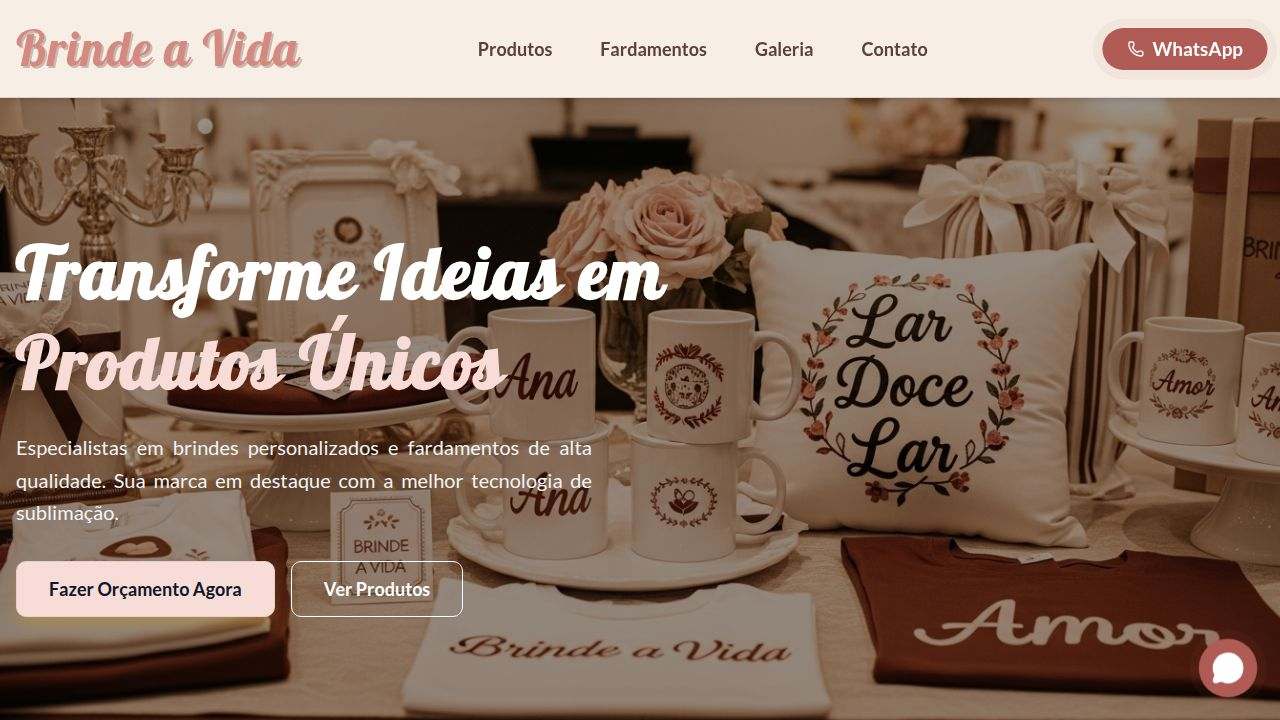
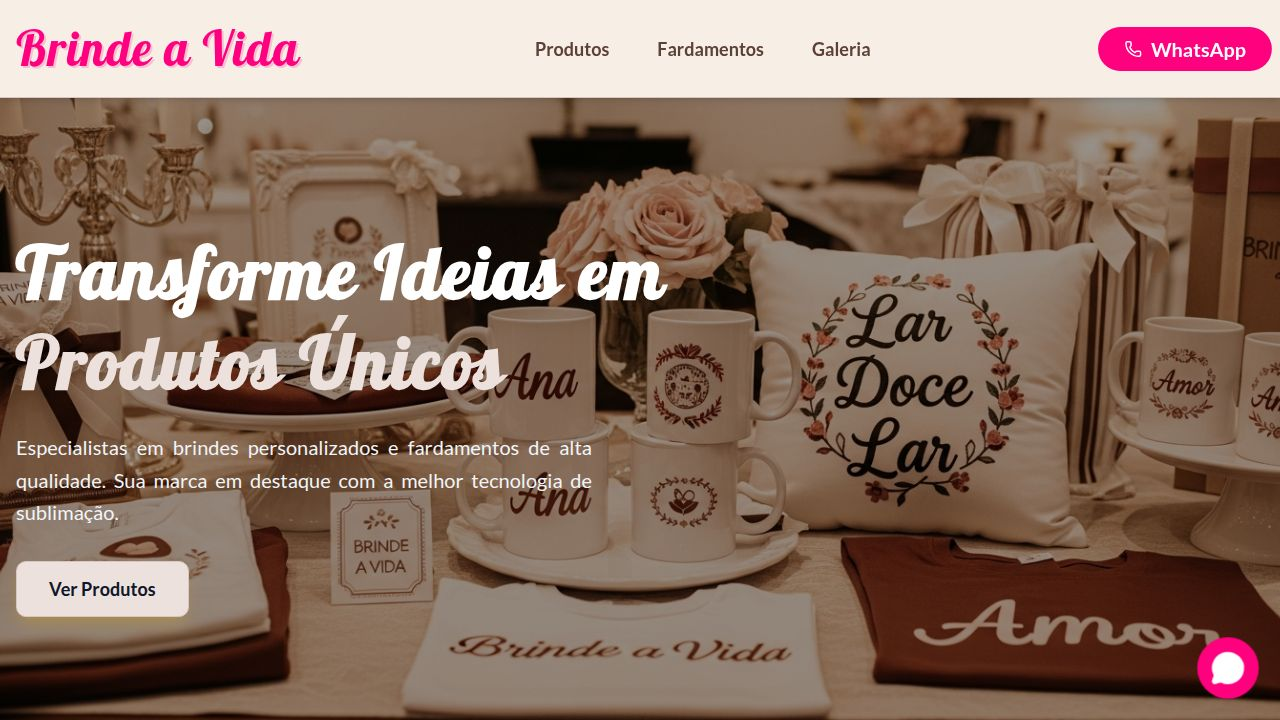
removido contato

diff --git a/client/src/lib/data.ts b/client/src/lib/data.ts
@@ -1,7 +1,6 @@
+import mugImage from "@assets/BannerPersonalizar_1772647599768.png";
+import chromeMugImage from "@assets/491270563_2154178541701428_2866912619618159045_n_1772647645752.jpg";
 import heroImage from "@assets/generated_images/hero_banner_with_portuguese_text_on_gifts.png";
-
-export { heroImage };
-import mugImage from "@assets/generated_images/personalized_mugs_with_portuguese_names.png";
 import tshirtImage from "@assets/generated_images/personalized_t-shirts_flatlay_portuguese_text.png";
 import cushionImage from "@assets/generated_images/personalized_cushions_on_sofa_portuguese_text.png";
 import labelImage from "@assets/generated_images/satin_labels_detail_portuguese_text.png";
@@ -14,19 +13,21 @@ import plateImage from "@assets/generated_images/decorative_porcelain_plate_port
 import restaurantImage from "@assets/generated_images/personalized_restaurant_items_portuguese_text.png";
 import schoolKitImage from "@assets/generated_images/personalized_school_kit_portuguese_name.png";
 
+export { heroImage };
+
 export const companyInfo = {
   name: "Brinde a Vida",
-  phone: "(11) 98747-5687", 
-  email: "comercial@iusti.com.br",
+  phone: "", 
+  email: "",
   address: "Rua das Flores, 123 - Centro, Cidade - SP", 
   whatsappLink: (message: string) => `https://wa.me/5511987475687?text=${encodeURIComponent(message)}`,
-  budgetFormLink: "https://docs.google.com/forms/d/e/1FAIpQLSel1-QfxqKG0ExDkuKM_s3zR-aO_FrAhylHpLOaD2WpUyHSzg/viewform?usp=publish-editor",
+  budgetFormLink: "",
   facebookLink: "https://www.facebook.com/BrindeaVidaPersonalizados/?locale=pt_BR",
   instagramLink: "https://instagram.com/brindeavida.ofc"
 };
 
 export const categories = [
-  { id: "canecas", name: "Canecas e Xícaras", image: mugImage },
+  { id: "canecas", name: "Canecas Personalizadas", image: mugImage },
   { id: "restaurantes", name: "Artigos para Restaurantes", image: restaurantImage },
   { id: "escolar", name: "Kits Escolares Personalizados", image: schoolKitImage },
   { id: "copos", name: "Copos Personalizados", image: partyCupImage },
@@ -43,11 +44,19 @@ export const categories = [
 export const products = [
   {
     id: 1,
-    name: "Canecas e Xícaras Personalizadas",
+    name: "Canecas Personalizadas",
     category: "Canecas",
     image: mugImage,
-    description: "Transforme cada gole em uma experiência única e afetuosa. Nossas canecas e xícaras de cerâmica premium são telas em branco prontas para receber sua arte, foto ou mensagem especial.\n\nCom acabamento impecável e brilho duradouro, elas não são apenas utensílios, mas veículos de emoção. Perfeitas para eternizar momentos em família, presentear colaboradores com elegância ou criar uma linha exclusiva de produtos para sua marca. Cada peça é tratada com carinho para garantir que a imagem permaneça vibrante, resistindo ao tempo e ao uso diário, assim como as memórias que elas carregam.",
-    benefits: ["Material Cerâmica Premium AAA", "Design Exclusivo e Personalizado", "Alta Resistência e Durabilidade", "Presente Emocional e Funcional"]
+    description: "Nossas canecas personalizadas são o presente perfeito para transformar um simples objeto em uma memória inesquecível. Produzidas com cerâmica de alta qualidade, elas garantem um brilho impecável e uma durabilidade que resiste ao tempo. Seja para o café da manhã, para decorar o escritório ou para presentear quem você ama com uma foto especial, frase motivacional ou arte exclusiva, nossas canecas são feitas com todo o cuidado para tocar o coração e trazer alegria a cada uso.",
+    benefits: ["Cerâmica Premium de Alto Brilho", "Impressão de Alta Definição", "Resistente a Micro-ondas e Lava-louças", "Presente Afetivo Personalizado"]
+  },
+  {
+    id: 14,
+    name: "Canecas Cromadas",
+    category: "Canecas",
+    image: chromeMugImage,
+    description: "Eleve o nível do seu presente com a sofisticação das nossas canecas cromadas. Com um acabamento espelhado deslumbrante em tons de dourado, prateado e rosê, estas peças são sinônimo de luxo e exclusividade.\n\nPerfeitas para quem busca um item de destaque na decoração ou um presente que impressiona logo no primeiro olhar. A personalização ganha um toque de classe único sobre o fundo metalizado, criando um contraste elegante que valoriza cada detalhe da arte. Um item indispensável para colecionadores e para brindes corporativos de alto padrão que desejam transmitir prestígio e modernidade.",
+    benefits: ["Acabamento Espelhado Premium", "Efeito Metálico Sofisticado", "Cores: Ouro, Prata e Rosê", "Presente de Alto Impacto Visual"]
   },
   {
     id: 11,
@@ -102,16 +111,15 @@ export const products = [
     name: "Etiquetas e Fitas de Cetim",
     category: "Etiquetas",
     image: labelImage,
-    description: "Sua marca merece ser assinada com elegância e sofisticação. Nossas etiquetas e fitas de cetim personalizadas são o detalhe que faz toda a diferença na percepção de valor do seu produto.\n\nIdeais para artesãos, costureiras e marcas de moda que desejam transmitir profissionalismo e cuidado em cada entrega. Com impressão nítida e material de brilho sutil, elas transformam embalagens e peças de roupa em verdadeiros presentes. É a finalização perfeita que encanta o cliente antes mesmo de ele ver o produto principal, fortalecendo sua identidade no mercado.",
+    description: "Sua marca merece ser assinada com elegância e sofisticação. Nossas etiquetas e fitas de cetim personalizadas são o detalhe que faz toda a difference na percepção de valor do seu produto.\n\nIdeais para artesãos, costureiras e marcas de moda que desejam transmitir profissionalismo e cuidado em cada entrega. Com impressão nítida e material de brilho sutil, elas transformam embalagens e peças de roupa em verdadeiros presentes. É a finalização perfeita que encanta o cliente antes mesmo de ele ver o produto principal, fortalecendo sua identidade no mercado.",
     benefits: ["Valorização do Produto Artesanal", "Acabamento Profissional e Elegante", "Fortalecimento de Branding", "Versatilidade para Embalagens"]
-    
   },
   {
     id: 5,
     name: "Bonés Personalizados",
     category: "Bonés",
     image: capImage,
-    description: "Estilo e visibilidade que vão à cabeça. Nossos bonés personalizados combinam design moderno com alta durabilidade, sendo a escolha ideal para proteger do sol enquanto promove sua marca ou evento.\n\nDisponíveis em diversos modelos como trucker, aba curva ou reta, eles oferecem ajuste perfeito e conforto para uso prolongado. Seja para times esportivos, brindes corporativos ou coleções de moda, garantimos uma personalização que destaca seu logo ou arte com precisão. Um acessório funcional que se torna parte do estilo de vida de quem usa.",
+    description: "Estilo e visibilidade que vão à cabeça. Nossos bonés personalizados combinam design moderno com alta durabilidade, sendo a escolha ideal para proteger do sol enquanto promove sua marca ou evento.\n\nDisponíveis em diversos modelos como trucker, aba curva ou reta, eles oferecem ajuste perfeito e conforto para uso prolongado. Seja para times esportivos, brindes corporativos ou coleções de moda, garantimos uma personalização que destaca seu logo ou arte com precisão. Um acessório funcional que se torna partedo estilo de vida de quem usa.",
     benefits: ["Alta Visibilidade da Marca", "Estilo e Proteção Solar", "Modelos Ajustáveis e Confortáveis", "Brinde de Longa Duração"]
   },
   {
@@ -137,6 +145,14 @@ export const products = [
     image: ecoImage,
     description: "Sustentabilidade e organização com a cara da sua marca. Nossas ecobags e agendas personalizadas são a escolha perfeita para empresas e pessoas conscientes que buscam unir utilidade e responsabilidade ambiental.\n\nAs ecobags, resistentes e reutilizáveis, levam sua mensagem para todos os lugares, enquanto as agendas ajudam a organizar a rotina com elegância. Produtos que demonstram cuidado não apenas com quem recebe, mas também com o planeta. Ideais para kits de boas-vindas, eventos corporativos e presentes que geram impacto positivo real.",
     benefits: ["Sustentabilidade e Consciência", "Utilidade no Dia a Dia", "Fortalecimento de Vínculos", "Imagem Positiva da Marca"]
+  },
+  {
+    id: 13,
+    name: "Kits Presentes Personalizados",
+    category: "Presentes",
+    image: ecoImage,
+    description: "A arte de presentear com intenção e afeto. Nossos kits presentes reúnem itens coordenados que contam uma história e celebram conexões. De caixas corporativas a kits de aniversário, cada conjunto é montado com curadoria especial.\n\nImagine a surpresa de quem recebe um kit onde cada item foi pensado exclusivamente para ela. Além da beleza estética, nossos kits priorizam a qualidade dos produtos e a experiência de abertura (unboxing), garantindo que seu gesto de carinho seja lembrado por muito tempo como uma demonstração genuína de valorização e amor.",
+    benefits: ["Curadoria de Itens Coordenados", "Experiência de Unboxing Encantadora", "Ideal para Datas Comemorativas", "Personalização de Kit Completo"]
   }
 ];
 

diff --git a/client/index.html b/client/index.html
@@ -4,8 +4,8 @@
     <meta charset="UTF-8" />
     <meta name="viewport" content="width=device-width, initial-scale=1.0, maximum-scale=1" />
 
-    <title>Brinde a Vida | Presentes Personalizados e Fardamentos em SP</title>
-    <meta name="description" content="Especialistas em presentes personalizados e fardamentos. Canecas, camisetas, almofadas, azulejos e brindes corporativos com qualidade premium. Atendemos São Paulo e região. Faça seu orçamento via WhatsApp!" />
+    <title>Brinde a Vida - Presentes Personalizados com Emoção</title>
+    <meta name="description" content="Eternize momentos especiais com presentes personalizados da Brinde a Vida. Canecas, camisetas, almofadas e muito mais, criados com amor e foco no benefício emocional desde 2013." />
     <meta name="keywords" content="brindes personalizados, presentes criativos, canecas personalizadas, camisetas personalizadas, fardamentos, sublimação, azulejos personalizados, brindes corporativos, São Paulo, presentes dia dos pais, presentes dia das mães, lembrancinhas" />
     <meta name="robots" content="index, follow" />
     <meta name="author" content="Innova Iusti" />
@@ -16,16 +16,16 @@
     <meta name="geo.position" content="-23.5505;-46.6333" />
     <meta name="ICBM" content="-23.5505, -46.6333" />
     
-    <meta property="og:title" content="Brinde a Vida | Presentes Personalizados e Fardamentos" />
-    <meta property="og:description" content="Transforme momentos em memórias. Canecas, camisetas, fardamentos e brindes exclusivos. Qualidade e carinho em cada detalhe." />
+    <meta property="og:title" content="Brinde a Vida - Presentes Personalizados com Emoção" />
+    <meta property="og:description" content="Eternize momentos especiais com presentes personalizados da Brinde a Vida. Qualidade e carinho em cada detalhe." />
     <meta property="og:type" content="website" />
     <meta property="og:locale" content="pt_BR" />
     <meta property="og:site_name" content="Brinde a Vida" />
     <meta property="og:image" content="/attached_assets/hero_image.png" /> 
     
     <meta name="twitter:card" content="summary_large_image" />
-    <meta name="twitter:title" content="Brinde a Vida | Presentes Personalizados" />
-    <meta name="twitter:description" content="Presentes únicos e personalizados: canecas, camisetas, fardamentos e muito mais. Peça já o seu!" />
+    <meta name="twitter:title" content="Brinde a Vida - Presentes Personalizados com Emoção" />
+    <meta name="twitter:description" content="Eternize momentos especiais com presentes personalizados da Brinde a Vida. Qualidade e carinho em cada detalhe." />
     <meta name="twitter:image" content="/attached_assets/hero_image.png" />
 
     <link rel="icon" type="image/png" href="/favicon.png" />

diff --git a/client/src/pages/Home.tsx b/client/src/pages/Home.tsx
@@ -67,13 +67,8 @@ export default function Home() {
               Sua marca em destaque com a melhor tecnologia de sublimação.
             </p>
             <div className="flex flex-col sm:flex-row gap-4">
-              <a href={companyInfo.budgetFormLink} target="_blank" rel="noopener noreferrer">
-                <Button size="lg" className="bg-secondary hover:bg-yellow-500 text-slate-900 font-bold text-lg px-8 h-14 w-full sm:w-auto shadow-lg shadow-yellow-500/20">
-                  Fazer Orçamento Agora
-                </Button>
-              </a>
               <Link href="/produtos">
-                <Button size="lg" variant="outline" className="bg-transparent border-white text-white hover:bg-white/10 font-semibold text-lg px-8 h-14 w-full sm:w-auto">
+                <Button size="lg" className="bg-secondary hover:bg-yellow-500 text-slate-900 font-bold text-lg px-8 h-14 w-full sm:w-auto shadow-lg shadow-yellow-500/20">
                   Ver Produtos
                 </Button>
               </Link>

diff --git a/client/src/components/ui/ProductCard.tsx b/client/src/components/ui/ProductCard.tsx
@@ -45,17 +45,14 @@ export function ProductCard({ product }: ProductCardProps) {
         </ul>
       </CardContent>
       <CardFooter className="pt-0">
-        <a
-          href={companyInfo.budgetFormLink}
-          target="_blank"
-          rel="noopener noreferrer"
-          className="w-full"
+        <Button 
+          className="w-full gap-2 bg-[#FF007F] hover:bg-[#E60073] text-white font-semibold shadow-sm"
+          data-testid={`button-whatsapp-product-${product.id}`}
+          onClick={() => window.open(companyInfo.whatsappLink(`Olá! Gostaria de um orçamento para: ${product.name}`), '_blank')}
         >
-          <Button className="w-full gap-2 bg-green-600 hover:bg-green-700 text-white font-semibold shadow-sm">
-            <MessageCircle className="h-4 w-4" />
-            Solicitar Orçamento
-          </Button>
-        </a>
+          <MessageCircle className="h-4 w-4" />
+          Solicitar Orçamento
+        </Button>
       </CardFooter>
     </Card>
   );

diff --git a/client/src/components/layout/Footer.tsx b/client/src/components/layout/Footer.tsx
@@ -28,8 +28,7 @@ export function Footer() {
             <li><Link href="/"><a className="hover:text-secondary transition-colors">Home</a></Link></li>
             <li><Link href="/produtos"><a className="hover:text-secondary transition-colors">Produtos</a></Link></li>
             <li><Link href="/fardamentos"><a className="hover:text-secondary transition-colors">Fardamentos</a></Link></li>
-            <li><Link href="/sobre"><a className="hover:text-secondary transition-colors">Sobre Nós</a></Link></li>
-            <li><Link href="/contato"><a className="hover:text-secondary transition-colors">Contato</a></Link></li>
+            <li><Link href="/galeria"><a className="hover:text-secondary transition-colors">Galeria</a></Link></li>
           </ul>
         </div>
       </div>

diff --git a/client/src/components/layout/Navbar.tsx b/client/src/components/layout/Navbar.tsx
@@ -13,7 +13,6 @@ export function Navbar() {
     { href: "/produtos", label: "Produtos" },
     { href: "/fardamentos", label: "Fardamentos" },
     { href: "/galeria", label: "Galeria" },
-    { href: "/contato", label: "Contato" },
   ];
 
   return (
